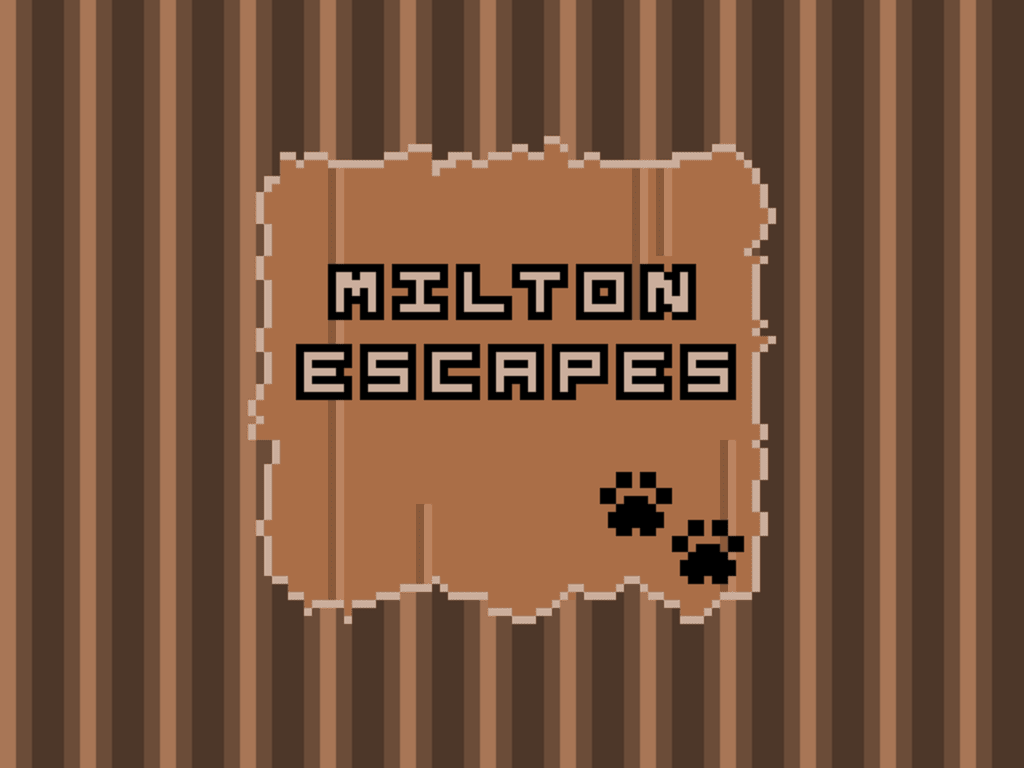
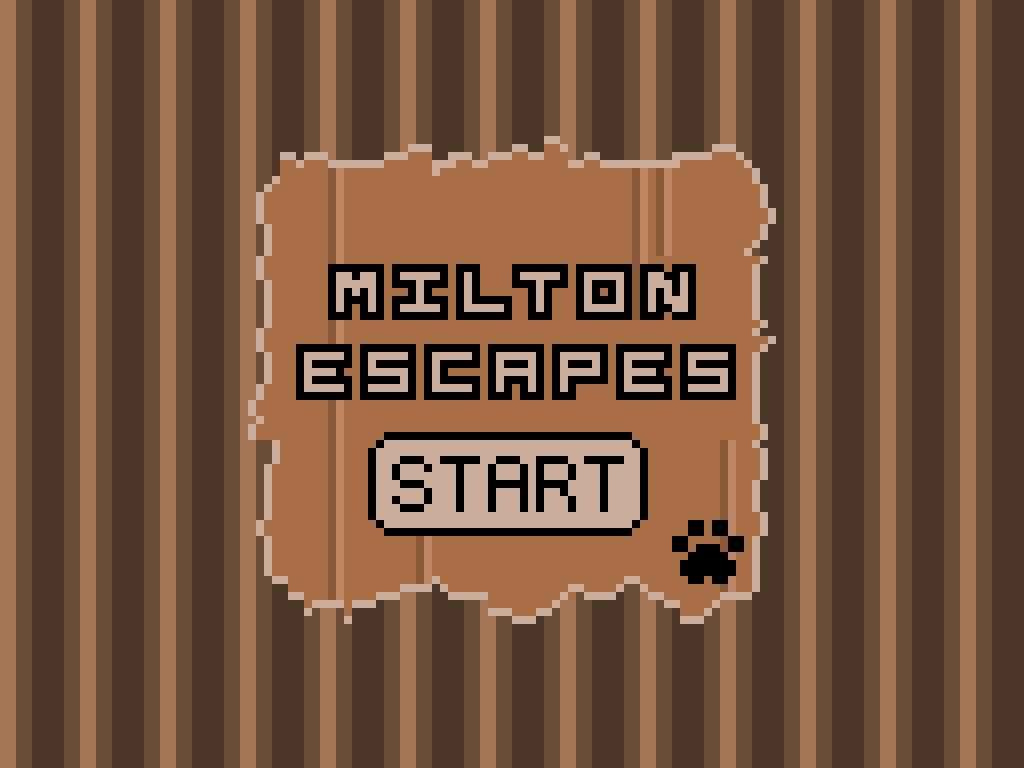
start and game over screen

diff --git a/Main.java b/Main.java
@@ -5,16 +5,22 @@ import javax.swing.JPanel;
 import javax.swing.JFrame;
 import java.awt.Color;
 import java.awt.Graphics;
+import java.io.File;
+import java.awt.image.BufferedImage;
+import javax.imageio.ImageIO;
+import java.io.IOException;
 import java.awt.Dimension;
 import java.util.Random;
 import java.awt.event.KeyListener;
+import java.awt.event.MouseEvent;
+import java.awt.event.MouseListener;
 import java.awt.event.KeyEvent; 
 // =========================================================================
 
 
 
 // =========================================================================
-public class Main extends JPanel implements KeyListener{
+public class Main extends JPanel implements KeyListener, MouseListener{
 // =========================================================================
 
 
@@ -25,6 +31,8 @@ public class Main extends JPanel implements KeyListener{
     public static final int WIDTH = 1024;
     public static final int HEIGHT = 768;
     public static final int FPS = 60;
+    public boolean play;
+    private BufferedImage startScreen;
     World world;
     // =====================================================================
 
@@ -39,7 +47,12 @@ public class Main extends JPanel implements KeyListener{
         // =================================================================
         public void run() {
             while(true){
-                world.updateWorld(1.0/FPS);
+                if((world.player.lives > 0) && (play == true)) {
+                    world.updateWorld(1.0/FPS);
+                }
+                else if(world.player.lives == 0.0) {
+                    world.status = true;
+                }
                 repaint();
                 try{
                     Thread.sleep(1000/FPS);
@@ -113,6 +126,45 @@ public class Main extends JPanel implements KeyListener{
     	char c = e.getKeyChar();
     } // keyTyped()
     // =====================================================================
+
+
+
+    // =====================================================================
+    public void mousePressed(MouseEvent e) { 
+        if(((e.getX() > 370) && (e.getX() < 647)) && ((e.getY() > 432) && (e.getY() < 535))) {
+            play = true;
+        }
+    }
+    // mousePressed()
+    // =====================================================================
+
+
+
+    // =====================================================================
+    public void mouseReleased(MouseEvent e) {}
+    // mouseReleased()
+    // =====================================================================
+
+
+
+    // =====================================================================
+    public void mouseExited(MouseEvent e) {}
+    // mouseExcited()
+    // =====================================================================
+
+
+
+    // =====================================================================
+    public void mouseEntered(MouseEvent e) {}
+    // mouseEntered()
+    // =====================================================================
+
+
+
+    // =====================================================================
+    public void mouseClicked(MouseEvent e) {}
+    // mouseClicked()
+    // =====================================================================
     
 
 
@@ -132,6 +184,7 @@ public class Main extends JPanel implements KeyListener{
     public Main(){
         world = new World(WIDTH, HEIGHT);
         addKeyListener(this);
+        addMouseListener(this);
         this.setPreferredSize(new Dimension(WIDTH, HEIGHT));
         Thread mainThread = new Thread(new Runner());
         mainThread.start();
@@ -144,8 +197,10 @@ public class Main extends JPanel implements KeyListener{
     public static void main(String[] args) {
         JFrame frame = new JFrame("Milton Escapes");
         frame.setDefaultCloseOperation(JFrame.EXIT_ON_CLOSE);
+
         Main mainInstance = new Main();
         frame.setContentPane(mainInstance);
+
         frame.pack();
         frame.setVisible(true);
     } // main()
@@ -159,8 +214,19 @@ public class Main extends JPanel implements KeyListener{
      
         g.setColor(Color.BLACK);
         g.fillRect(0, 0, WIDTH, HEIGHT);
-     
-        world.drawWorld(g); 
+
+        try {
+            startScreen = ImageIO.read(new File("start.png"));
+        }
+        catch (IOException ex) {
+            System.out.println("Failed to find image.");
+        } 
+        
+        g.drawImage(startScreen, 0, 0, null);
+
+        if(play) {
+            world.drawWorld(g); 
+        }
     } // paintCompnent()
     // =====================================================================
 

diff --git a/World.java b/World.java
@@ -4,6 +4,10 @@
 import java.util.ArrayList;
 import java.util.Random;
 import java.awt.Graphics;
+import java.io.File;
+import java.awt.image.BufferedImage;
+import javax.imageio.ImageIO;
+import java.io.IOException;
 // =========================================================================
 
 
@@ -20,6 +24,8 @@ public class World{
     public int width;
     public int height;
     public double time;
+    public boolean status;
+    private BufferedImage gameOver;
     public Room firstRoom;
     public Room currentRoom;
     public Cat player;
@@ -45,6 +51,13 @@ public class World{
             roomTypes.add(i);
         }
 
+        try {
+            gameOver = ImageIO.read(new File("game-over.png"));
+        }
+        catch (IOException ex) {
+            System.out.println("Failed to find image.");
+        }
+
     } // World()
     // =====================================================================
 
@@ -53,8 +66,15 @@ public class World{
     // =====================================================================
     public void drawWorld(Graphics g){
         //map.draw(g);
-        currentRoom.draw(this, g);
-        player.draw(this, g);
+        if(status) {
+            g.drawImage(gameOver, 0, 0, null);
+            System.out.println("bruh");
+        }
+
+        else {
+            currentRoom.draw(this, g);
+            player.draw(this, g);
+        }
     } // drawWorld()
     // =====================================================================
 
@@ -68,6 +88,9 @@ public class World{
     } // updateWorld()
     // =====================================================================
 
+
+
+    // =====================================================================
     public void addRoom(int doorNum){
         if (doorNum == 1){
             if (countRooms() < 4) {
@@ -163,7 +186,10 @@ public class World{
                 currentRoom = currentRoom.next2;
             }
         }
-    }
+    } // addRoom()
+    // =====================================================================
+
+
 
     // =====================================================================
     public int countRooms(){
@@ -180,7 +206,9 @@ public class World{
             if (popped == currentRoom) isCurrentRoom = true;
         }
         return count;
-    }
+    } // countRooms()
+    // =====================================================================
+
 
 
 // =========================================================================
